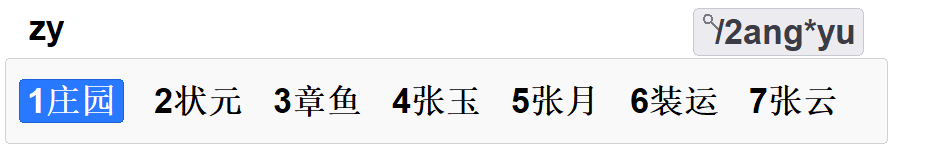
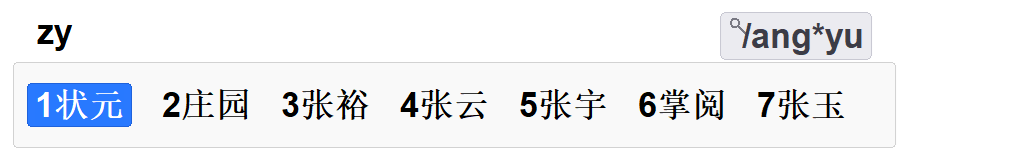
更新文档

diff --git a/README.md b/README.md
@@ -24,11 +24,13 @@
 
 ## 使用“/”筛选
 
-候选词语非常多的时候，可以按下“/”进行筛选，减少翻页。筛选条件可以包含“*”进行模糊匹配，还可以紧跟一个数字筛选候选字长度。
-
-例如：`/2ang*yu`，筛选长度为 2，全拼包含 ang 和 yu 的词语，“庄园”、“状元”、“章鱼”等词语满足要求。
+候选词语非常多的时候，可以按下 `/` 进行筛选，减少翻页。筛选条件可以包含 `*` 进行模糊匹配， 例如： `/ang*yu` ，筛选全拼包含`ang`和`yu`的词语，`庄园`、`状元`、`章鱼`等词语满足要求。
 
 ![输入界面截图 4](help/doc_04.png)
+
+还可以使用更多的搜索条件，使用逗号分割。语法为 `/条件1,条件2,条件3` 。 `条件2`是筛选词语的长度，可以输入`a~c`，表示长度`1~3`的词语。 `条件3`是筛选词语的声调，可以输入`a~e`，表示一声、二声、三声、四声和轻声的词语。 例如： `/ang*yu,b,ab`，筛选全拼包含`ang`和`yu`，长度为2，声调为一声和二声的词语，`庄园`、`章鱼`等词语满足要求。
+
+![输入界面截图 5](help/doc_05.png)
 
 ## 常用按键
 
